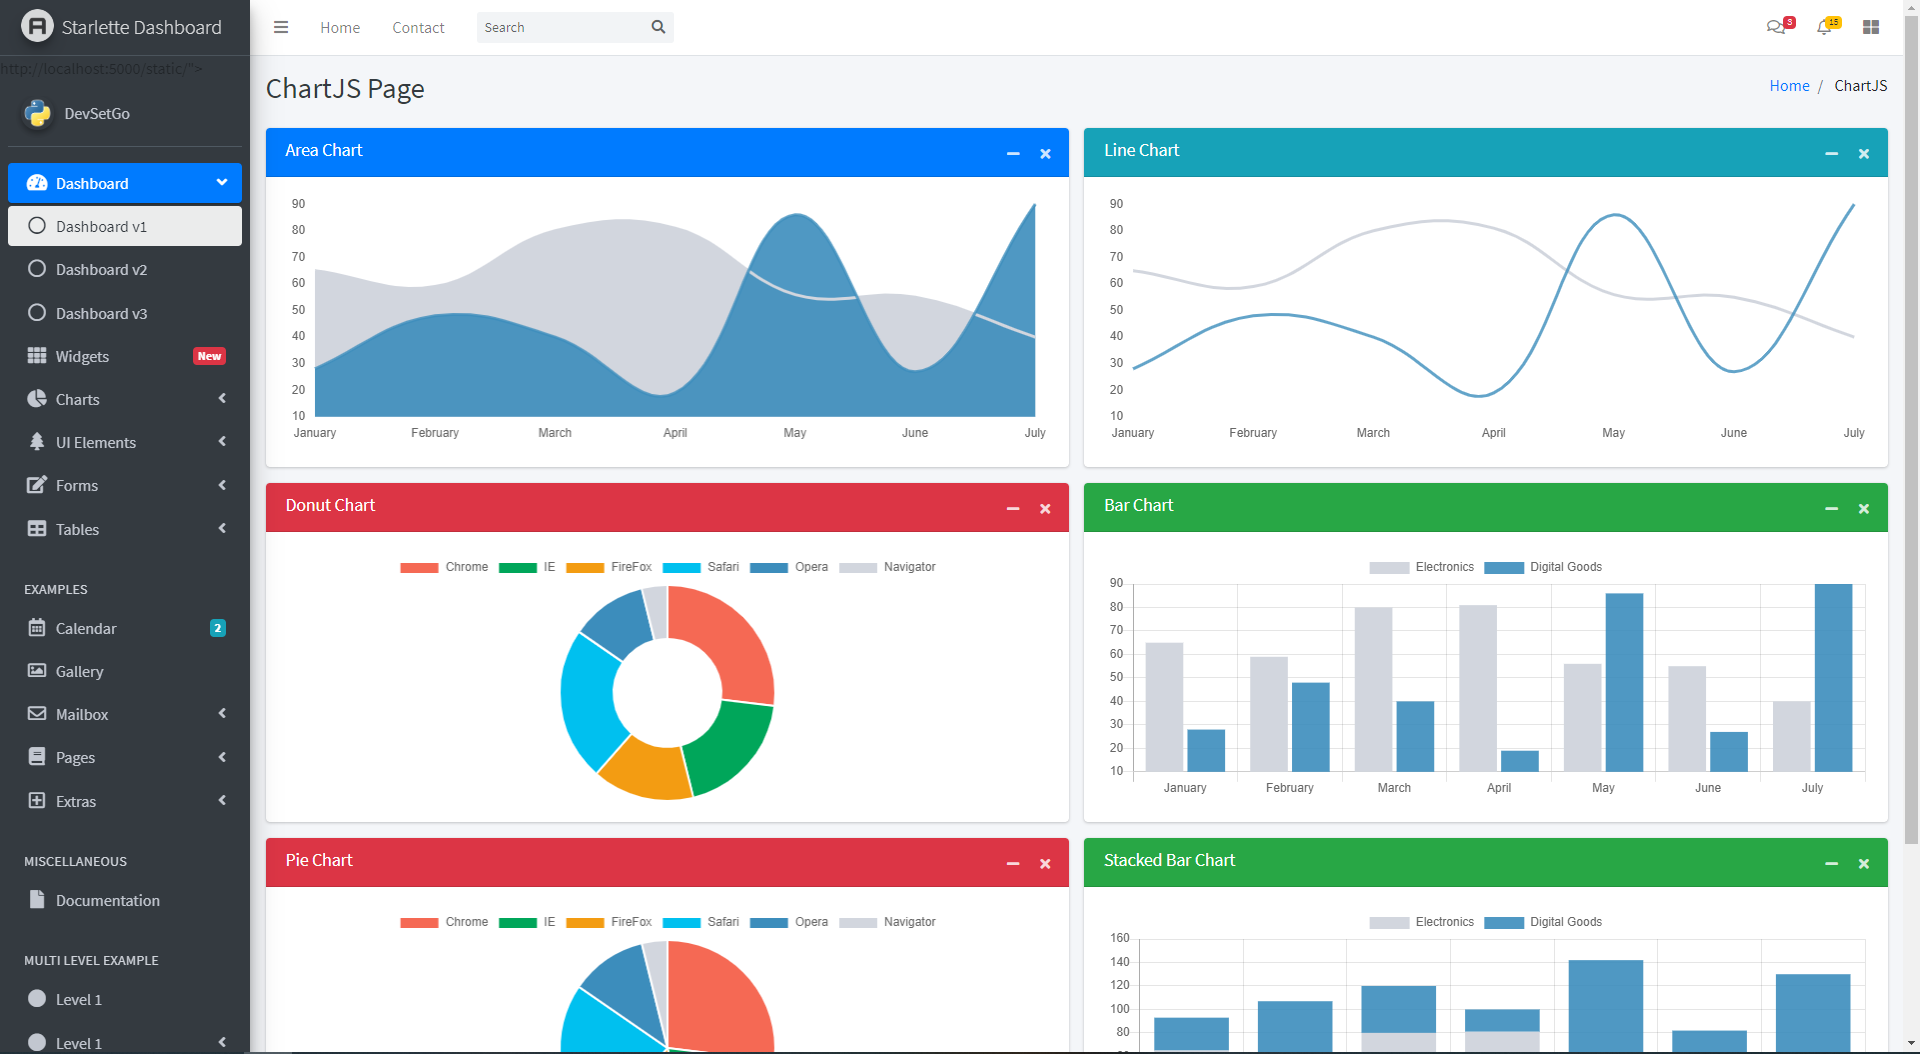
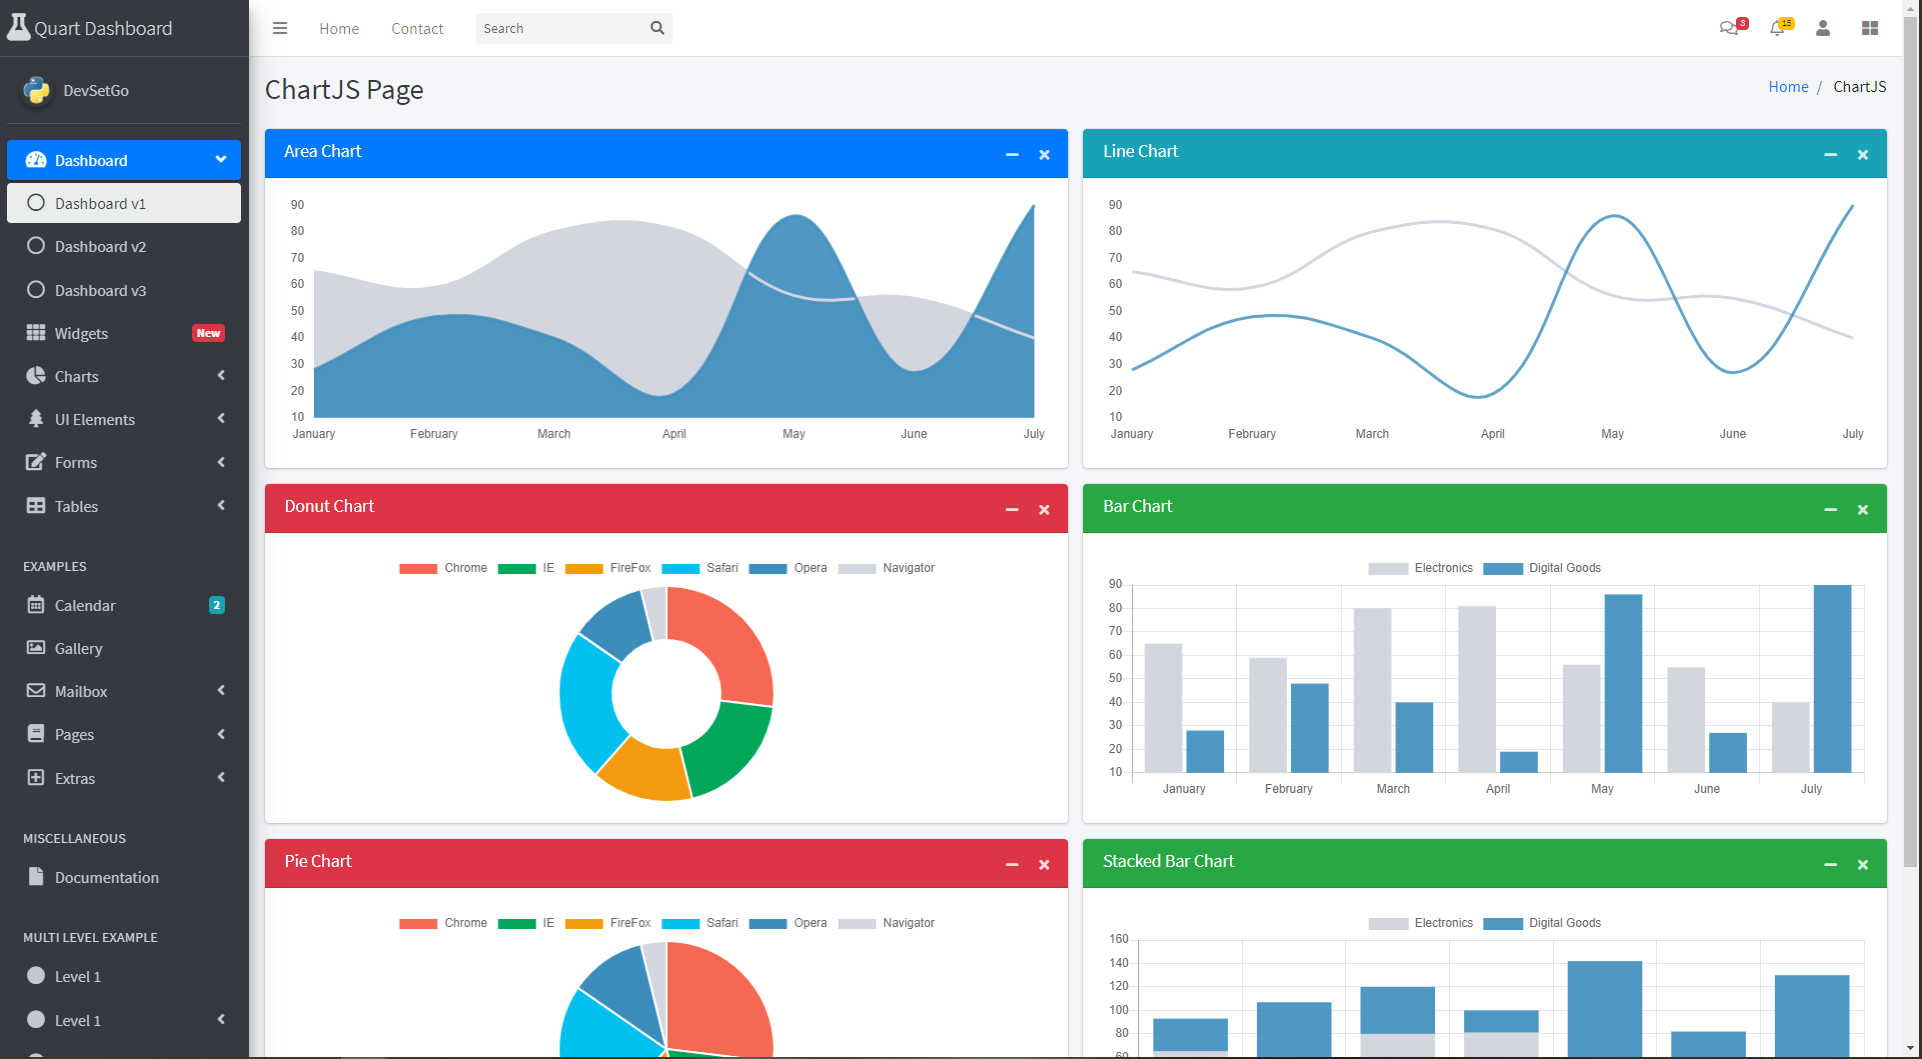
new screenshots and updates

diff --git a/README.md b/README.md
@@ -76,9 +76,9 @@ python3 -m pytest
 
 ## TODO
 
-- [ ] Create tests
-    - [ ] Minimum of 80%
-    - [ ] Exception Testing
+- [x] Create tests
+    - [x] Minimum of 80%
+    - [x] Exception Testing
     - [ ] Mock [requests](https://2.python-requests.org/en/master/) call
 - [x] Better organization
     - [x] Use of Endpoints (equivalent to Flask Blueprints) - starlette routes and endpoint (/app/routes)
@@ -91,21 +91,21 @@ python3 -m pytest
 - [x] Gunicorn/Uvicorn configuration
 - [x] Logging (using [Loguru](https://github.com/Delgan/loguru))
 - [x] Setup CI/CD Pipeline for test and deployment
-    - [x] [SonarCloud](https://sonarcloud.io)
-    - [x] [Github Actions](https://github.com/features/actions) found in .github/workflow/actions
-        - [x] tests - matrix run of Python 3.6 and 3.7
+    - [ ] [SonarCloud](https://sonarcloud.io)
+    - [ ] [Github Actions](https://github.com/features/actions) found in .github/workflow/actions
+        - [ ] tests - matrix run of Python 3.6 and 3.7
             - [ ] CodeCove.io upload
-        - [x] docker-rc - docker build and push when pull request approved for release-candidate branch (calendar version - rc)
-        - [x] docker-master - docker build and push when pull request approved for master branch (calender version and latest)
-        - [x] ensure docker build only happens after pull_request approved and merged into higher branch
+        - [x ] docker-rc - docker build and push when pull request approved for release-candidate branch (calendar version - rc)
+        - [ ] docker-master - docker build and push when pull request approved for master branch (calender version and latest)
+        - [ ] ensure docker build only happens after pull_request approved and merged into higher branch
 - [ ] [Twelve Factor App](https://12factor.net/) ready
 - [ ] Build a [cookiecutter](https://github.com/audreyr/cookiecutter) template for
 - [ ] Add code comments
 - [ ] Websocket example
 
 - Docker
-  - [x] Docker Image
-  - [x] Docker-Compose
+  - [ ] Docker Image
+  - [ ] Docker-Compose
     - [ ] Docker Swarm settings
   - [ ] Kubernetes Kompose
 
@@ -115,7 +115,7 @@ python3 -m pytest
   - [ ] Explantion of Configuration
 
 ### Screenshots
-coming soon
+
 ![Quart Dashboard](screenshots/image_1.PNG)
 ![Quart Dashboard](screenshots/image_2.PNG)
 ![Quart Dashboard](screenshots/image_3.PNG)
